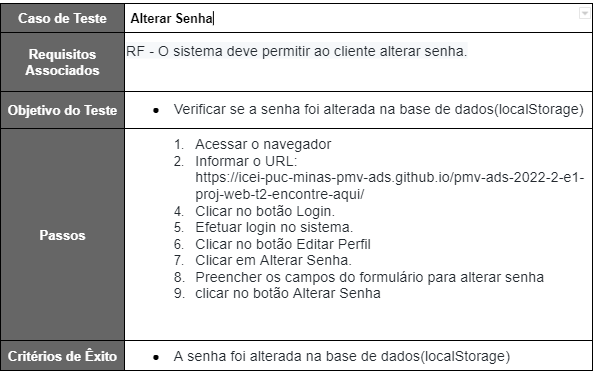
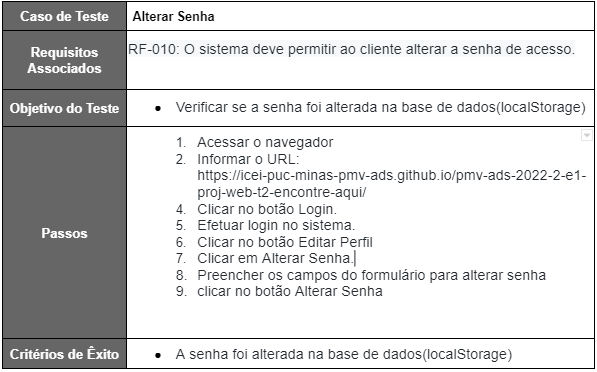
update Testes e Registros

Changed region(s): [[0.0, 0.0, 0.9983, 1.0], [0.0605, 0.5914, 0.1513, 0.6505]]

diff --git a/docs/02-Especificação do Projeto.md b/docs/02-Especificação do Projeto.md
@@ -59,28 +59,28 @@ Para que o usuário possa interagir juntamente com o site é necessária uma lis
 A tabela a seguir apresenta os requisitos do projeto, identificando a prioridade em que os mesmos devem ser entregues.
 </p>
 
-| ID     | Descrição do Requisito                                                                                                                                                     | Prioridade |
-| ------ | -------------------------------------------------------------------------------------------------------------------------------------------------------------------------- | ---------- |
-| RF-001 | O sistema, em sua página principal na web, deverá apresentar as empresas ou prestadores de serviços mais próximos à localização do cliente(pessoa jurídica ou física) que acessou a página.           | ALTA       |
-| RF-002 | O sistema deve permitir ao cliente pesquisar por empresas, produtos ou serviços cadastrados no sistema.                                                                    | ALTA       |
-| RF-003 | O sistema deverá filtrar as buscas por cidade.                                                                                                                              | MÉDIA      |
-| RF-004 | O sistema deve permitir ao cliente filtrar o resultado de pesquisas por categoria, e por estado de funcionamento (aberto ou fechado), no horário em que a busca for feita. | MÉDIA      |
-| RF-005 | O sistema deve permitir o cadastro de cliente do tipo pessoa física, e cliente do tipo pessoa jurídica.                                                                                                                         | ALTA       |
-|  RF-006 | O formulário de cadastro deverá conter os campos de entrada: NOME DE USUÁRIO, EMAIL e SENHA.                                                               | BAIXA       |
-|  RF-007| O sistema não deve permitir o cadastro de empresas por clientes menores de 18 anos. | BAIXA       |
-| RF-008 | O sistema deve permitir ao cliente fazer login com nome de usúario ou email e senha.                                                                                                                            | MÉDIA       |
-| RF-009 | O sistema deve permitir ao cliente editar seus dados cadastrais.                                                                                                           | BAIXA       |
-| RF-010 | O sistema deve permitir ao cliente criar uma nova senha, caso não saiba sua senha de login.                                                                                | BAIXA      |
-| RF-011 | O sistema deve permitir que pessoa jurídica, previamente cadastrada, crie página(s) na plataforma para divulgação de sua empresa, produto(s) ou serviço(s).                              | ALTA       |
-| RF-012 | Antes de criar a primeia página, a empresa deverá preencher um formulario, contendo os campos: RAZÃO SOCIAL, CNPJ, LOGRADOURO, BAIRRO, MUNICÍPIO, ESTADO, CEP, TELEFONE, EMAIL para contato. Poderá também, fazer o upload de uma foto pessoal ou de sua logomarca, caso tenha uma.| ALTA       |
-| RF-013 | O sistema deve permitir a edição da página criada para a divulgação de produto ou serviço, pela pessoa jurídica que a criou                                                | MÉDIA      |
-| RF-014 | O sistema deve permitir ao usuário adicionar empresas, produtos ou serviços, em sua lista de favoritos, que está disponível em seu perfil.                                 | ALTA       |
-| RF-015 | O sistema deve permitir a pessoa física e jurídica remover empresas, produtos ou serviços da sua lista de favoritos, que estará disponível em seu perfil.                                    | MÉDIA      |
-| RF-016 | O formulario para criação de página possuirá campos editaveis, e com instruções de como a empresa poderá montar sua página.   | ALTA      | 
-| RF-017 | Nos campos destinados ao envio de imagens, o sistema deve permitir o upload de imagens JPEG/JPG, GIF, PNG, TIFF e SVG.                                                                                                | MÉDIA      |
-| RF-018 | O sistema disponibilizará o endereço da página na web para a empresa que a criou.                                                                                                      | MÉDIA      |
-| RF-019 | O sistema disponibilizará na(s) página(s) da pessoa jurídica, através da API de mapas do Microsoft Bing, um mapa informando sua localização comercial.                             | BAIXA      |
-| RF-020 | O sistema deve permitir que pessoa jurídica, previamente cadastrada, remova página(s) por ela criada(s), na plataforma.                              | ALTA       |
+| ID     | Descrição do Requisito                                                                                                                                                                                                                                                              | Prioridade |
+| ------ | ----------------------------------------------------------------------------------------------------------------------------------------------------------------------------------------------------------------------------------------------------------------------------------- | ---------- |
+| RF-001 | O sistema, em sua página principal na web, deverá apresentar as empresas ou prestadores de serviços mais próximos à localização do cliente(pessoa jurídica ou física) que acessou a página.                                                                                         | ALTA       |
+| RF-002 | O sistema deve permitir ao cliente pesquisar por empresas, produtos ou serviços cadastrados no sistema.                                                                                                                                                                             | ALTA       |
+| RF-003 | O sistema deverá filtrar as buscas por cidade.                                                                                                                                                                                                                                      | MÉDIA      |
+| RF-004 | O sistema deve permitir ao cliente filtrar o resultado de pesquisas por categoria, e por estado de funcionamento (aberto ou fechado), no horário em que a busca for feita.                                                                                                          | MÉDIA      |
+| RF-005 | O sistema deve permitir o cadastro de cliente do tipo pessoa física, e cliente do tipo pessoa jurídica.                                                                                                                                                                             | ALTA       |
+| RF-006 | O formulário de cadastro deverá conter os campos de entrada: NOME DE USUÁRIO, EMAIL e SENHA.                                                                                                                                                                                        | BAIXA      |
+| RF-007 | O sistema não deve permitir o cadastro de empresas por clientes menores de 18 anos.                                                                                                                                                                                                 | BAIXA      |
+| RF-008 | O sistema deve permitir ao cliente fazer login com nome de usúario ou email e senha.                                                                                                                                                                                                | MÉDIA      |
+| RF-009 | O sistema deve permitir ao cliente editar seus dados cadastrais.                                                                                                                                                                                                                    | BAIXA      |
+| RF-010 | O sistema deve permitir ao cliente alterar a senha de acesso.                                                                                                                                                                                                                       | BAIXA      |
+| RF-011 | O sistema deve permitir que pessoa jurídica, previamente cadastrada, crie página(s) na plataforma para divulgação de sua empresa, produto(s) ou serviço(s).                                                                                                                         | ALTA       |
+| RF-012 | Antes de criar a primeia página, a empresa deverá preencher um formulario, contendo os campos: RAZÃO SOCIAL, CNPJ, LOGRADOURO, BAIRRO, MUNICÍPIO, ESTADO, CEP, TELEFONE, EMAIL para contato. Poderá também, fazer o upload de uma foto pessoal ou de sua logomarca, caso tenha uma. | ALTA       |
+| RF-013 | O sistema deve permitir a edição da página criada para a divulgação de produto ou serviço, pela pessoa jurídica que a criou                                                                                                                                                         | MÉDIA      |
+| RF-014 | O sistema deve permitir ao usuário adicionar empresas, produtos ou serviços, em sua lista de favoritos, que está disponível em seu perfil.                                                                                                                                          | ALTA       |
+| RF-015 | O sistema deve permitir a pessoa física e jurídica remover empresas, produtos ou serviços da sua lista de favoritos, que estará disponível em seu perfil.                                                                                                                           | MÉDIA      |
+| RF-016 | O formulario para criação de página possuirá campos editaveis, e com instruções de como a empresa poderá montar sua página.                                                                                                                                                         | ALTA       |
+| RF-017 | Nos campos destinados ao envio de imagens, o sistema deve permitir o upload de imagens JPEG/JPG, GIF, PNG, TIFF e SVG.                                                                                                                                                              | MÉDIA      |
+| RF-018 | O sistema disponibilizará o endereço da página na web para a empresa que a criou.                                                                                                                                                                                                   | MÉDIA      |
+| RF-019 | O sistema disponibilizará na(s) página(s) da pessoa jurídica, através da API de mapas do Microsoft Bing, um mapa informando sua localização comercial.                                                                                                                              | BAIXA      |
+| RF-020 | O sistema deve permitir que pessoa jurídica, previamente cadastrada, remova página(s) por ela criada(s), na plataforma.                                                                                                                                                             | ALTA       |
 
 ### 3.2 Requisitos não Funcionais
 
@@ -88,14 +88,14 @@ A tabela a seguir apresenta os requisitos do projeto, identificando a prioridade
 A tabela a seguir apresenta os requisitos não funcionais que o projeto deverá atender.
 </p>
 
-| ID      | Descrição do Requisito                                                                                                                                                                                                                                                                                 | Prioridade |
-| ------- | ------------------------------------------------------------------------------------------------------------------------------------------------------------------------------------------------------------------------------------------------------------------------------------------------------ | ---------- |
-| RNF-001 | O site deverá ser compatível com os principais navegadores do mercado (Google Chrome, Firefox, Microsoft Edge).                                                                                                                                                                                          | ALTA       |
-| RNF-002 | O site deverá ser responsivo, permitindo a visualização em diferentes tamanhos de tela de forma adequada.                                                                                                                                                                                                                | MÉDIA       |
-| RNF-003 | O site deverá ter interface de usúario de facil entendimento.                                                                                                                                                                                         | MÉDIA       |
-| RNF-004 | A senha para acesso ao perfil do cliente, deve conter pelo menos 7 caracteres.                                                                                                                                                                                          | ALTA       |
-| RNF-005 | O sistema dará status de cliente-empresa ao usuário que divulgar sua empresa, produto ou serviço.                                                                                                                                                                                                      | MÉDIA       |
-| RNF-006 | O sistema deverá estar disponivel 24 horas por dia, todos os dias da semana.                                                                                                                                                                                                      | ALTA       |
+| ID      | Descrição do Requisito                                                                                          | Prioridade |
+| ------- | --------------------------------------------------------------------------------------------------------------- | ---------- |
+| RNF-001 | O site deverá ser compatível com os principais navegadores do mercado (Google Chrome, Firefox, Microsoft Edge). | ALTA       |
+| RNF-002 | O site deverá ser responsivo, permitindo a visualização em diferentes tamanhos de tela de forma adequada.       | MÉDIA      |
+| RNF-003 | O site deverá ter interface de usúario de facil entendimento.                                                   | MÉDIA      |
+| RNF-004 | A senha para acesso ao perfil do cliente, deve conter pelo menos 7 caracteres.                                  | ALTA       |
+| RNF-005 | O sistema dará status de cliente-empresa ao usuário que divulgar sua empresa, produto ou serviço.               | MÉDIA      |
+| RNF-006 | O sistema deverá estar disponivel 24 horas por dia, todos os dias da semana.                                    | ALTA       |
 
 ### 3.3 Restrições
 
@@ -103,7 +103,7 @@ A tabela a seguir apresenta os requisitos não funcionais que o projeto deverá 
 As questões que limitam a execução desse projeto e que se configuram como obrigações claras para o desenvolvimento do projeto em questão são apresentadas na tabela a seguir.
 </p>
 
-| ID      | Descrição do Requisito                                                                                        |
-| ------- | ------------------------------------------------------------------------------------------------------------- |
-| RE-001 |O sistema deve se restringir às tecnologias básicas da Web no Front-end.                                        |
-| RE-002 | A implementação do sistema deverá ser feita até o dia 11/12/2022, não podendo extrapolar a data.              |
+| ID     | Descrição do Requisito                                                                           |
+| ------ | ------------------------------------------------------------------------------------------------ |
+| RE-001 | O sistema deve se restringir às tecnologias básicas da Web no Front-end.                         |
+| RE-002 | A implementação do sistema deverá ser feita até o dia 11/12/2022, não podendo extrapolar a data. |
